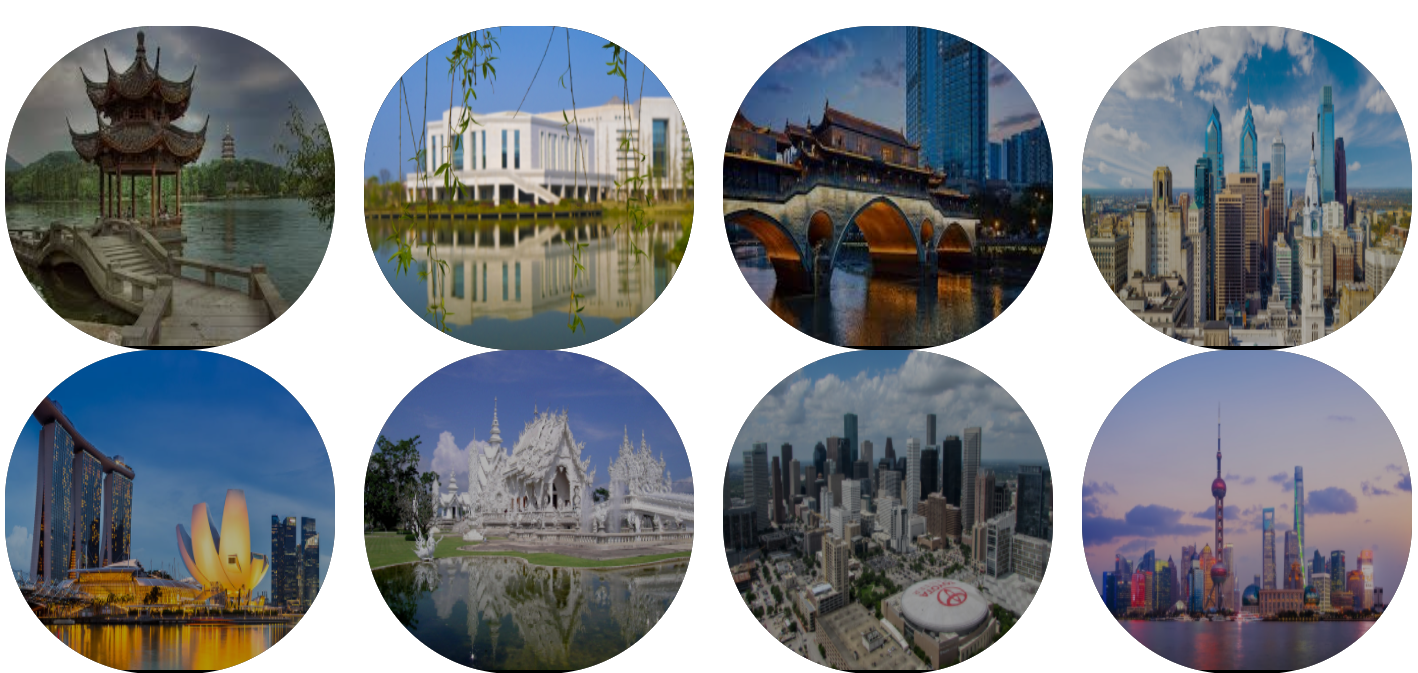
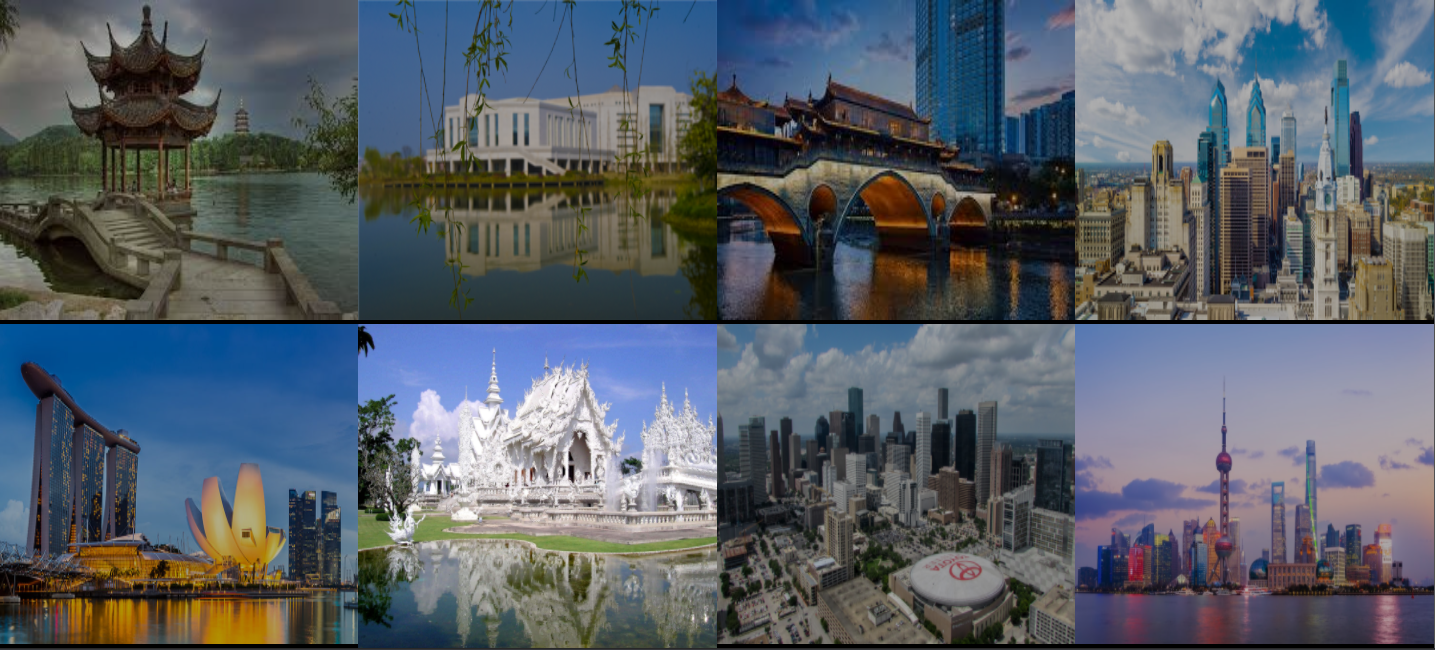
fix: city view changed

diff --git a/index.html b/index.html
@@ -72,8 +72,8 @@
                </div>
            </div>
         </section>
-        <section class="section-mood">
-            <ul class="mood-showcase">
+        <section class="section-city">
+            <ul class="city-showcase">
                 <li>
                     <figure class="me-photo">
                         <img src="/resources/css/img/1.jpg" alt="hangzhou xi hu">
@@ -95,7 +95,7 @@
                     </figure>
                 </li>
             </ul>
-            <ul class="mood-showcase">
+            <ul class="city-showcase">
                 <li>
                     <figure class="me-photo">
                         <img src="/resources/css/img/5.jpg" alt="singapore">

diff --git a/resources/css/style.css b/resources/css/style.css
@@ -201,15 +201,14 @@ header {
 /*
     City showcase 
 */
-.mood-showcase {
+.city-showcase {
     list-style: none;
     width: 100%;
 }
-.mood-showcase li {
+.city-showcase li {
     display: block;
     float: left;
-    width: 23%;
-    margin: 0 1%;
+    width: 25%;
 }
 
 .me-photo {
@@ -217,7 +216,7 @@ header {
     margin: 0;
     overflow: hidden;
     background-color: #000;
-    border-radius: 150px;
+/*    border-radius: 150px;*/
 }
 
 .me-photo img{
